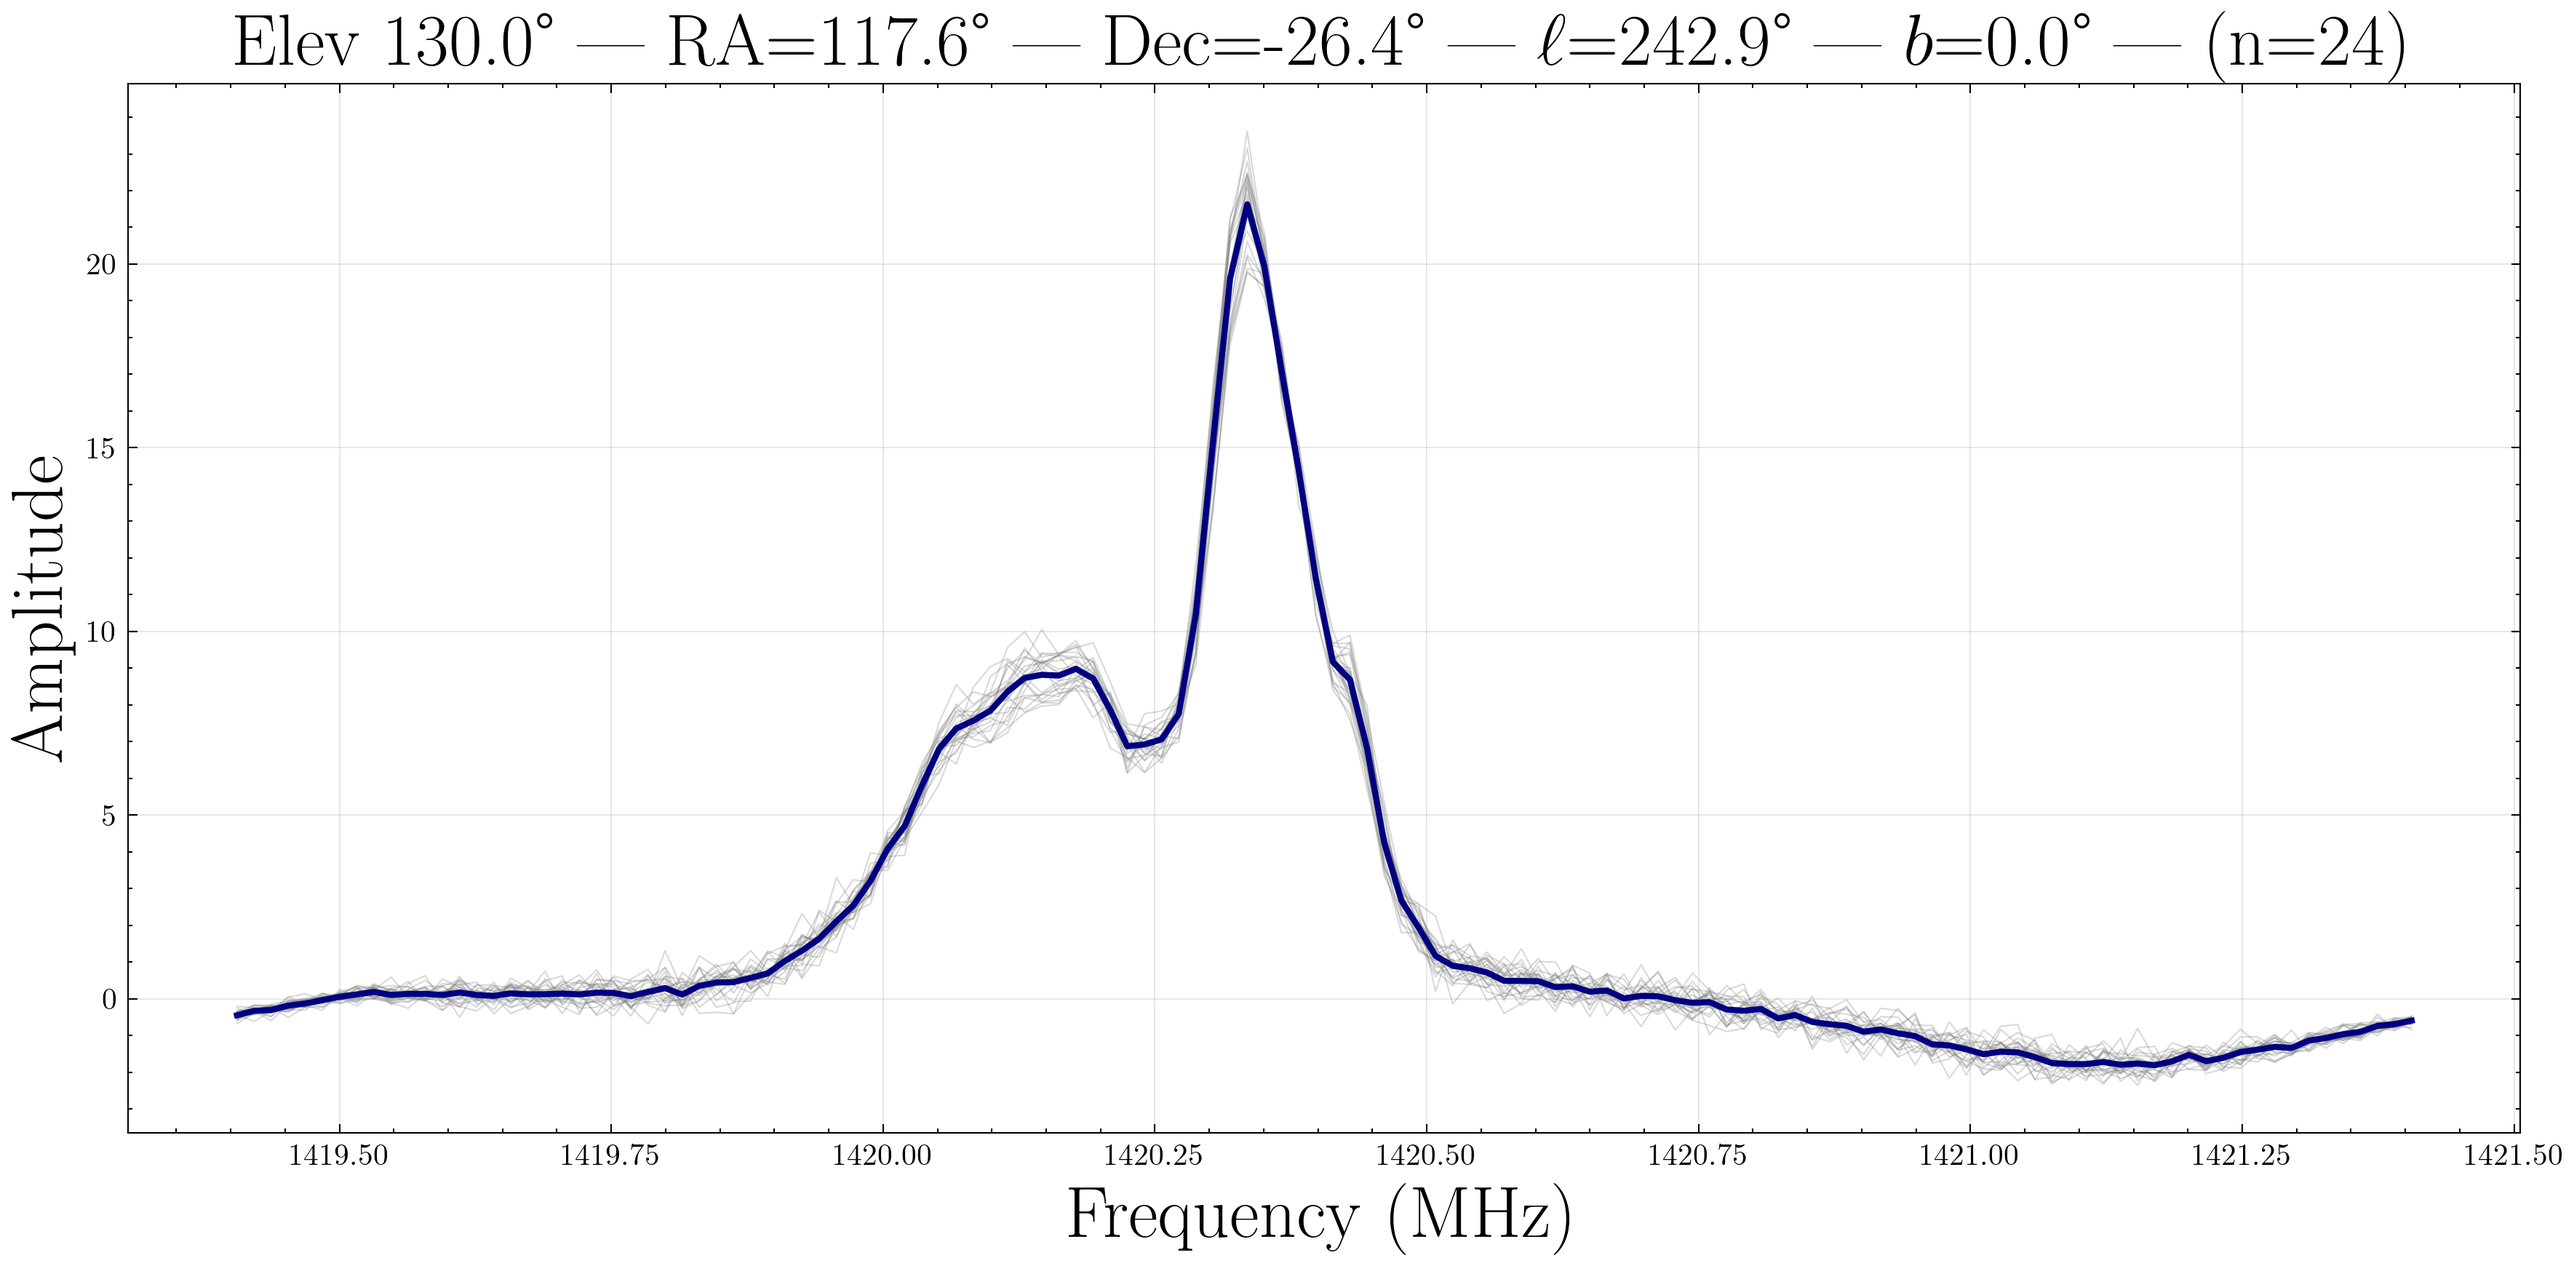
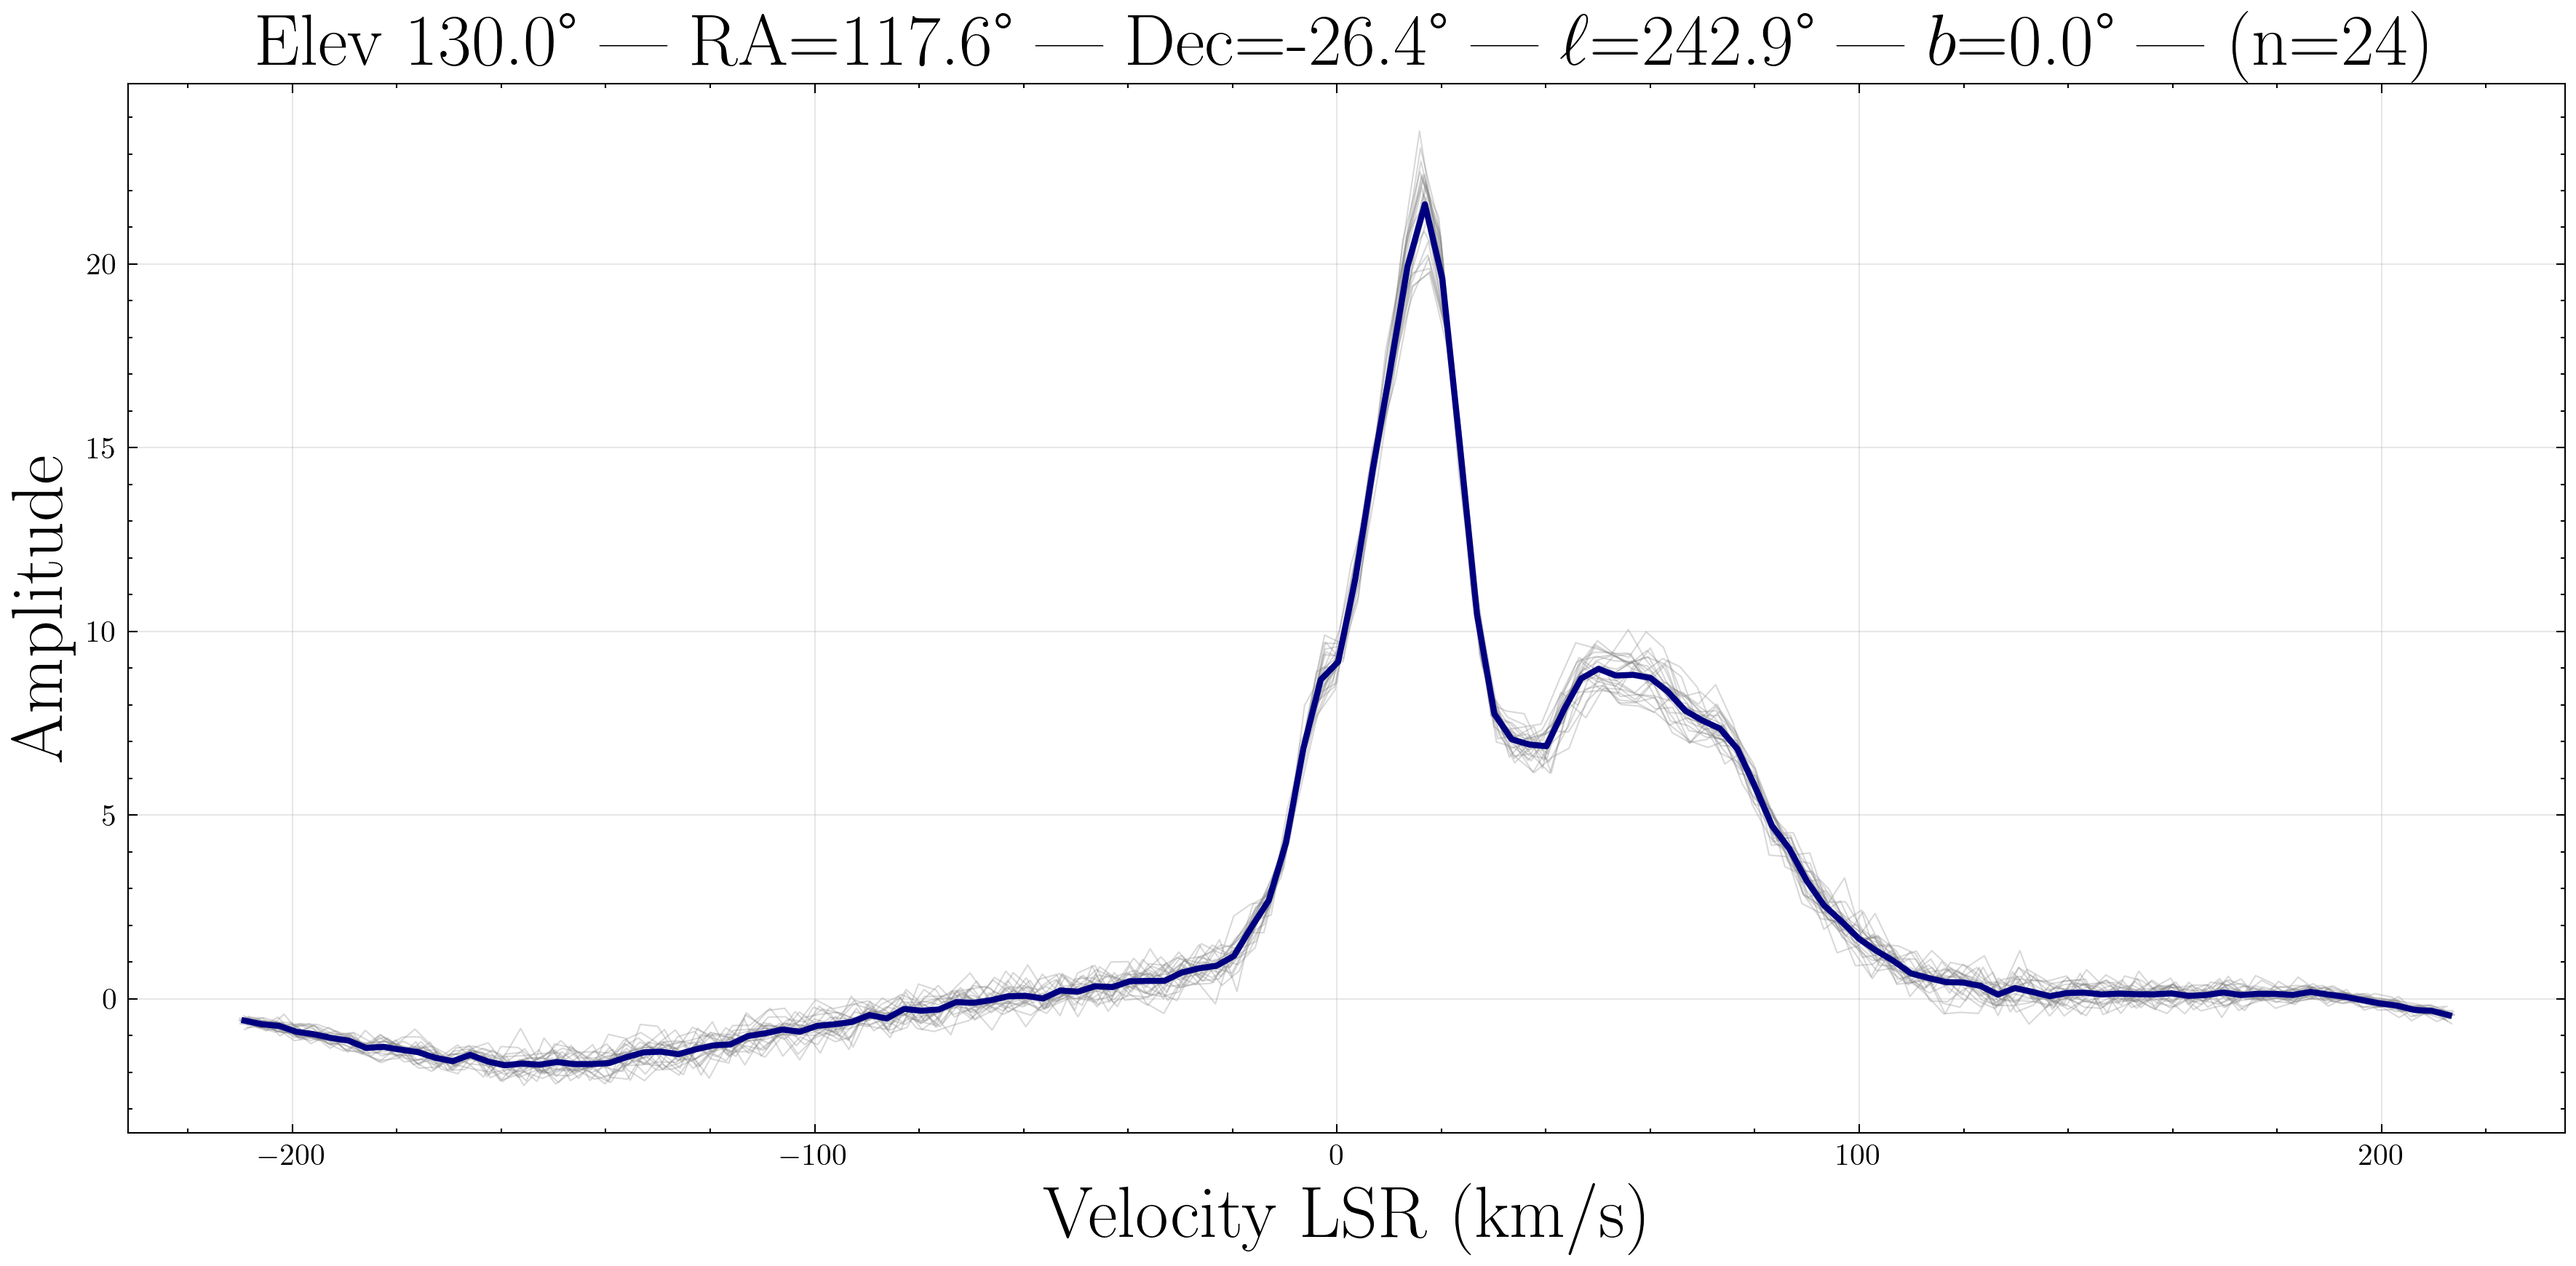
some changes

diff --git a/g_plane_spectra.py b/g_plane_spectra.py
@@ -167,7 +167,7 @@ for idx, elev_dir in enumerate(elevation_dirs):
                     print(f"v_sun_along_los: {v_sun_along_los}")
                     v_corr_lsr = v_bary_along_los + v_sun_along_los
                     print(f"Correction term: {v_corr_lsr:.2f}")
-                    velocity_lsr.append(velocity + float(v_corr_lsr.to(u.km/u.s).value))
+                    velocity_lsr.append((c * (f0 - freqs) / f0) + float(v_corr_lsr.to(u.km/u.s).value))
 
         if len(spectra) > 0:
             # all spectra
@@ -177,6 +177,7 @@ for idx, elev_dir in enumerate(elevation_dirs):
                 plt.plot(v_lsr, spec, color='gray', alpha=0.3, linewidth=0.5)
             # Average spectra
             avg_spectrum = np.mean(spectra, axis=0)
+            avg_v_lsr = np.mean(velocity_lsr, axis=0)
             coordinate = SkyCoord(ra=ra_crossing * u.deg, dec=declination * u.deg, frame='icrs')
             galactic_lat = coordinate.galactic.b.deg
             galactic_lon = coordinate.galactic.l.deg
@@ -184,8 +185,9 @@ for idx, elev_dir in enumerate(elevation_dirs):
                      freqs=freqs, avg_spectrum=avg_spectrum, spectra=spectra, 
                      ra=ra_crossing, declination=declination, glatitude=galactic_lat, glongitude=galactic_lon, elevation=elevation)
             
-            # plt.plot(freqs, avg_spectrum, linewidth=2, color='navy')
-            plt.xlabel("Frequency (MHz)", fontsize=24)
+            plt.plot(avg_v_lsr, avg_spectrum, linewidth=2, color='navy')
+            # plt.xlabel("Frequency (MHz)", fontsize=24)
+            plt.xlabel("Velocity LSR (km/s)", fontsize=24)
             plt.ylabel("Amplitude", fontsize=24)
             plt.title(rf"Elev {elevation}° | RA={ra_crossing:.1f}° | Dec={declination:.1f}° | $\ell$={galactic_lon:.1f}° | $b$={galactic_lat:.1f}° | (n={len(spectra)})", fontsize=24)
             plt.grid(True, alpha=0.3)
